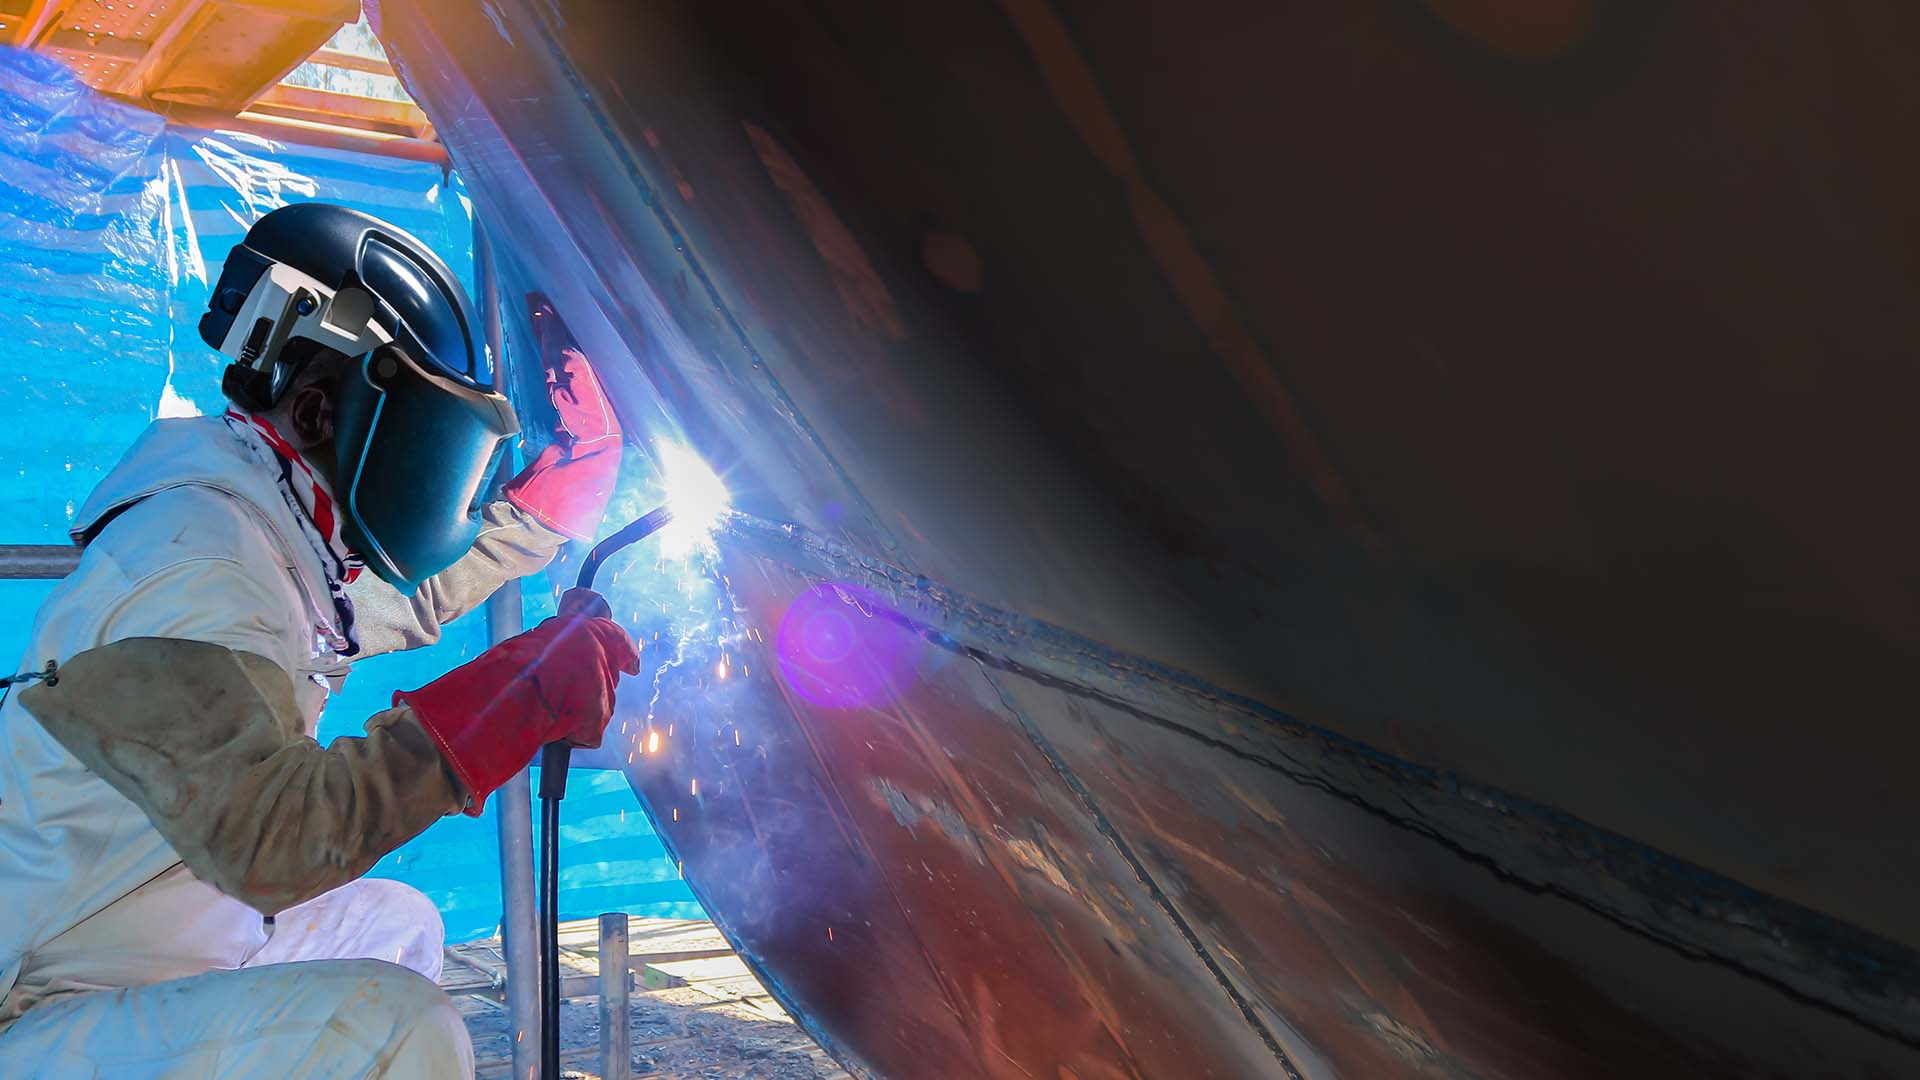
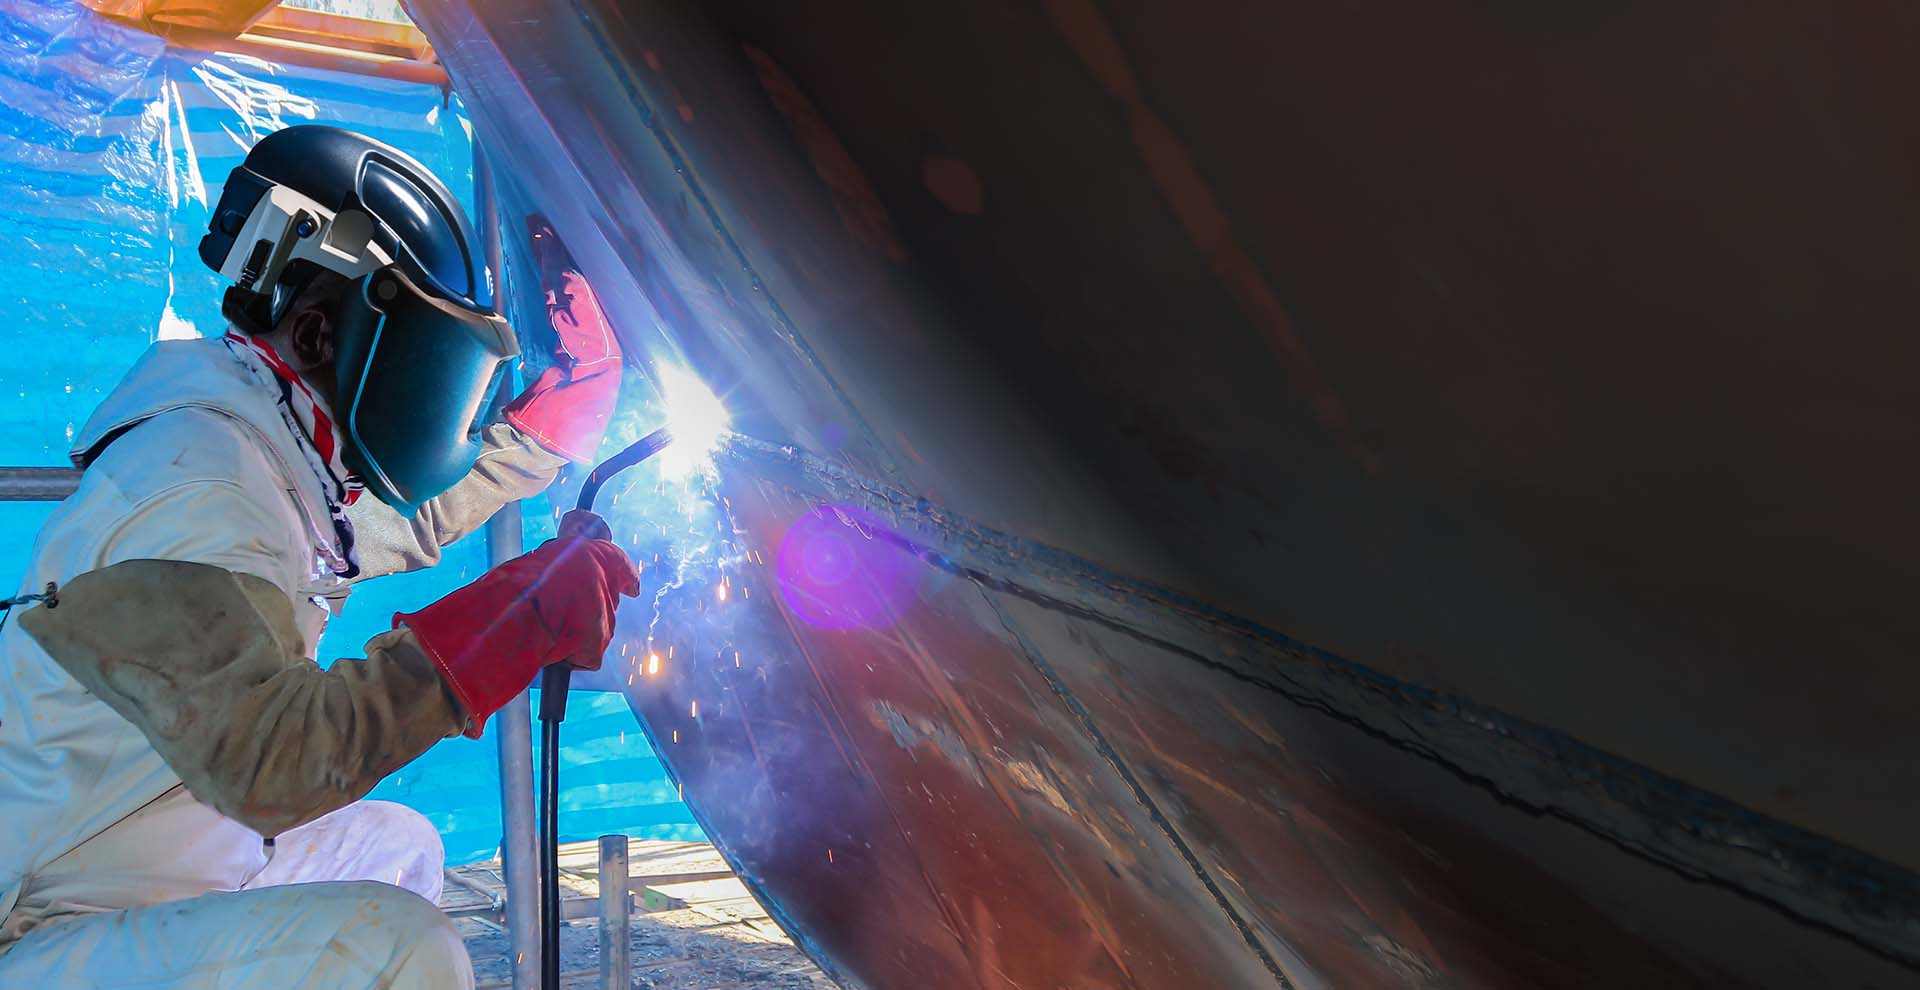
updated hero images and css

diff --git a/wp-content/themes/pureflo/assets/css/home.css b/wp-content/themes/pureflo/assets/css/home.css
@@ -46,36 +46,6 @@
 
 @keyframes float {0%, 00% { transform: translateY(0); } 50% { transform: translateY(-15px); } }
 
-
-
-/*-------------------
-# How We Work
----------------------*/
-.how-we-work .steps-grid { display: grid; grid-template-columns: repeat(auto-fit, minmax(280px, 1fr)); gap: 2rem; position: relative; margin-bottom: 3rem; }
-
-@media (min-width: 992px) { .how-we-work .steps-grid { grid-template-columns: repeat(4, 1fr); }}
-@media (max-width: 768px) { .how-we-work .steps-grid { gap: 1.5rem; }}
-
-.how-we-work .step-card { background: #ffffff; padding: 2.5rem 2rem; border-radius: 20px; text-align: center; position: relative; box-shadow: 0 10px 40px rgba(0, 0, 0, 0.08); transition: all 0.3s ease; border: 1px solid color-mix(in srgb, var(--pureflo-blue), transparent 90%); }
-.how-we-work .step-card:hover { transform: translateY(-10px); box-shadow: 0 20px 60px rgba(0, 0, 0, 0.15); border-color: var(--pureflo-blue); }
-.how-we-work .step-card:hover .step-icon { background-color: var(--pureflo-blue); color: #ffffff; transform: scale(1.1); }
-.how-we-work .step-card:hover .step-arrow { transform: translateX(5px); }
-.how-we-work .step-card .step-icon { width: 80px; height: 80px; border-radius: 50%; background: linear-gradient(135deg, color-mix(in srgb, var(--pureflo-blue), transparent 80%) 0%, color-mix(in srgb, var(--pureflo-blue), transparent 90%) 100%); color: var(--pureflo-blue); display: flex; align-items: center; justify-content: center; font-size: 2rem; margin: 0 auto 1.5rem; transition: all 0.3s ease; }
-.how-we-work .step-card .step-number { background: linear-gradient(135deg, var(--pureflo-blue) 0%, color-mix(in srgb, var(--pureflo-blue), #000 20%) 100%); color: #ffffff; padding: 0.5rem 1rem; border-radius: 25px; font-size: 0.85rem; font-weight: 600; text-transform: uppercase; letter-spacing: 0.5px; display: inline-block; margin-bottom: 1rem; }
-.how-we-work .step-card h3 { font-size: 1.4rem; margin-bottom: 1rem; color: var(--hd-color); }
-@media (max-width: 576px) { .how-we-work .step-card h3 { font-size: 1.2rem; } }
-
-.how-we-work .step-card p { font-size: 0.95rem; color: var(--main-color); line-height: 1.6; margin-bottom: 0; }
-.how-we-work .step-card .step-arrow { position: absolute; top: 50%; right: -15px; width: 30px; height: 30px; background-color: var(--pureflo-blue); border-radius: 50%; display: flex; align-items: center; justify-content: center; color: #ffffff; font-size: 0.9rem; transition: all 0.3s ease; z-index: 2; }
-.how-we-work .step-card:last-child .step-arrow { display: none; }
-@media (max-width: 991px) { .how-we-work .step-card .step-arrow { display: none; } }
-
-@media (max-width: 991px) { .how-we-work .steps-grid { grid-template-columns: repeat(2, 1fr); }}
-@media (max-width: 576px) { 
-  .how-we-work .steps-grid { grid-template-columns: 1fr; }
-  .how-we-work .step-card { padding: 2rem 1.5rem; }
-}
-
 /* === OFFERS === */
 
 .offer-section { position: relative; padding: 100px 0; background: linear-gradient(170deg, #ffffff 0%, color-mix(in srgb, #ffffff, var(--pureflo-blue) 5%) 100%); }

diff --git a/wp-content/themes/pureflo/assets/css/products.css b/wp-content/themes/pureflo/assets/css/products.css
@@ -66,14 +66,14 @@ hr.sm {width:200px; border-top-width:2px; color:var(--pureflo-blue);}
   .how-we-work .step-card { padding: 2rem 1.5rem; }
 }
 
-/* === SUB PAGES === */
+/* === SUB PAGES HERO === */
 
-.hero.esm-niosh { background-image: url('../img/hero/hero-esm-niosh.jpg'); background-position:left top; background-repeat: no-repeat; background-size: cover;}
-.hero.esm-niosh::after  { content: ""; position: absolute; inset: 0; pointer-events: none; background: linear-gradient(0deg,rgba(0, 0, 0, 1) 2%, rgba(0, 0, 0, 0.1) 35%);}
+.hero.esm { background-image: url('../img/hero/hero-esm-niosh.jpg'); background-position:left top; background-repeat: no-repeat; background-size: cover;}
+.hero.esm::after  { content: ""; position: absolute; inset: 0; pointer-events: none; background: linear-gradient(0deg,rgba(0, 0, 0, 1) 2%, rgba(0, 0, 0, 0.1) 35%);}
 @media (max-width: 1200px) {.hero.esm {background-image: url('../img/hero/hero-esm-niosh-md.jpg'); background-position:right top;}}
 
-.hero.esm { background-image: url('../img/hero/hero-esm.jpg'); background-position:left top; background-repeat: no-repeat; background-size: cover;}
-.hero.esm::after  { content: ""; position: absolute; inset: 0; pointer-events: none; background: linear-gradient(0deg,rgba(0, 0, 0, 1) 2%, rgba(0, 0, 0, 0.1) 35%);}
+.hero.esm-en { background-image: url('../img/hero/hero-esm.jpg'); background-position:left center; background-repeat: no-repeat; background-size: cover;}
+.hero.esm-en::after  { content: ""; position: absolute; inset: 0; pointer-events: none; background: linear-gradient(0deg,rgba(0, 0, 0, 1) 2%, rgba(0, 0, 0, 0.1) 35%);}
 @media (max-width: 1200px) {.hero.esm {background-image: url('../img/hero/hero-esm-md.jpg'); background-position:right top;}}
 
 .hero.pf3000 { background-image: url('../img/hero/hero-pf3000.jpg'); background-position:left top; background-repeat: no-repeat; background-size: cover;}
@@ -86,7 +86,7 @@ hr.sm {width:200px; border-top-width:2px; color:var(--pureflo-blue);}
 
 .hero.purelite { background-image: url('../img/hero/hero-purelite.jpg'); background-position:left top; background-repeat: no-repeat; background-size: cover;}
 .hero.purelite::after  { content: ""; position: absolute; inset: 0; pointer-events: none; background: linear-gradient(0deg,rgba(0, 0, 0, 1) 2%, rgba(0, 0, 0, 0.1) 35%);}
-@media (max-width: 1200px) {.hero.pf3000 {background-image: url('../img/hero/hero-purelite-md.jpg'); background-position:right top;}}
+@media (max-width: 1200px) {.hero.purelite {background-image: url('../img/hero/hero-purelite-md.jpg'); background-position:right top;}}
 
 .quick-scan h5 {font-weight:600;}
 .quick-scan p {font-size:1.1rem; opacity:.9;}
